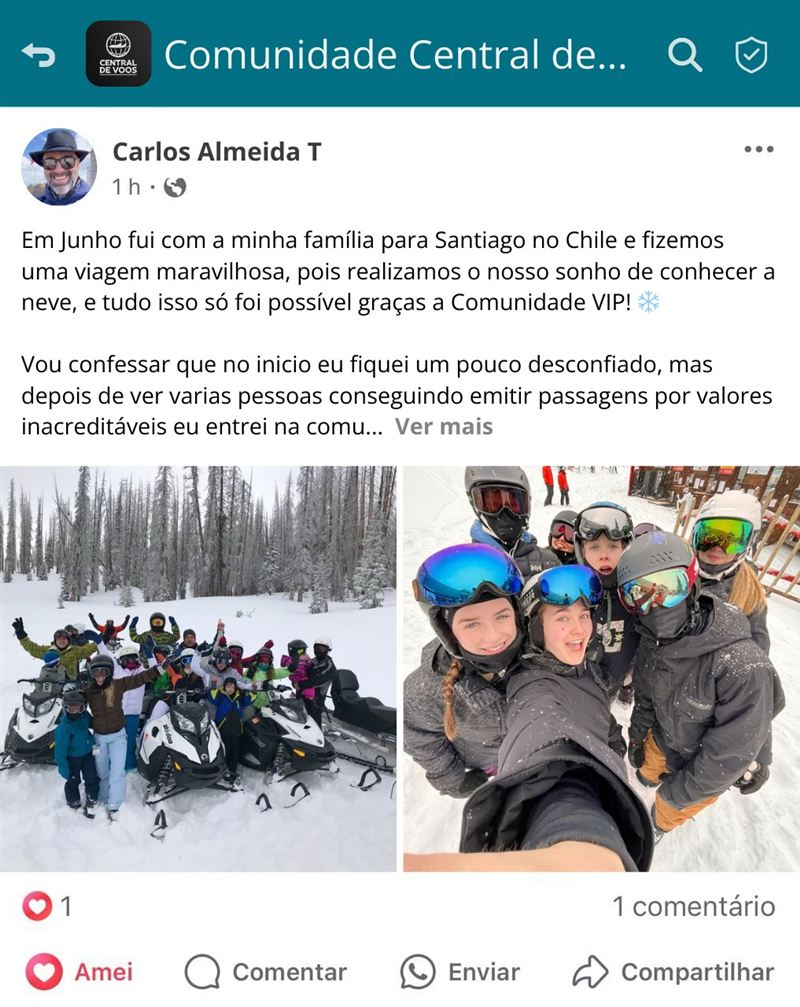
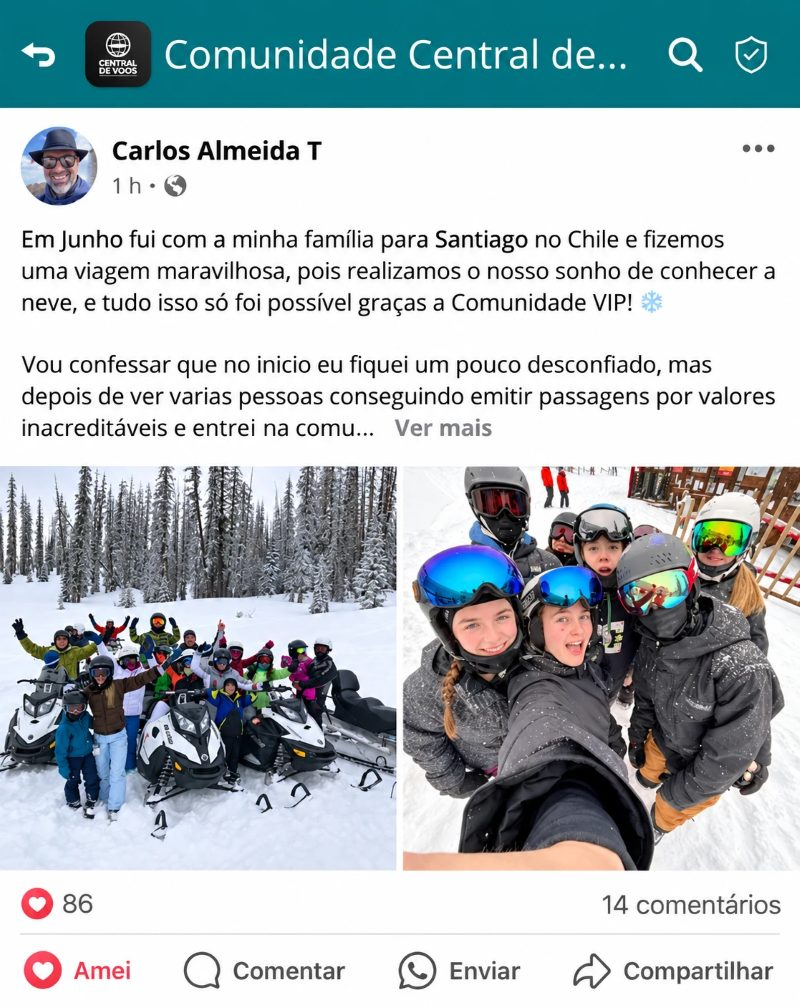
Atualiza funil (v41)

diff --git a/app.js b/app.js
@@ -211,7 +211,7 @@
   async function cartao(html, classe, ms) { await digitando(ms != null ? ms : 1100); return linha("ele", html, classe); }
   const eu = (texto) => linha("eu", esc(texto));
   // Tamanho real das imagens do fluxo (midia/fluxo), pra reservar o espaço certo antes de carregar.
-  const TAMANHO_IMG = { tarifaAward: [800, 813], googleParis: [800, 1422], pagouParis: [800, 1200], viagemParis: [800, 1200], carlosSantiago: [800, 1007], julianaEgito: [800, 1007], comoAplicarCupom: [800, 1000] };
+  const TAMANHO_IMG = { tarifaAward: [800, 813], googleParis: [800, 1422], pagouParis: [800, 1200], viagemParis: [800, 1200], carlosSantiago: [800, 1008], julianaEgito: [800, 1000], comoAplicarCupom: [800, 1000] };
   async function foto(url, legenda, alt) {
     if (!url) return;
     await digitando(1100);
@@ -1250,7 +1250,7 @@
       await ele("Perfeito! Então você já consegue aproveitar as passagens com milhas..");
       await ele("O grande problema que você deve enfrentar então é encontrar essas passagens, que ficam escondidas para o destino que você quer, e na data que pode ir...");
       await ele("lembrando que você n pode demorar muito, pq essas promoções Awards acabam bem rápido");
-      await ele("ainda bem que temos uma Comunidade VIP, lá são enviadas mais de 100 promoções todos os dias!");
+      await ele("ainda bem que temos uma Comunidade VIP, lá são enviadas mais de 150 promoções todos os dias!");
       await opcoes([{ texto: "Quero saber mais!", principal: true }]);
     } else {
       if (milhas.texto === "SIM, poucas") {
